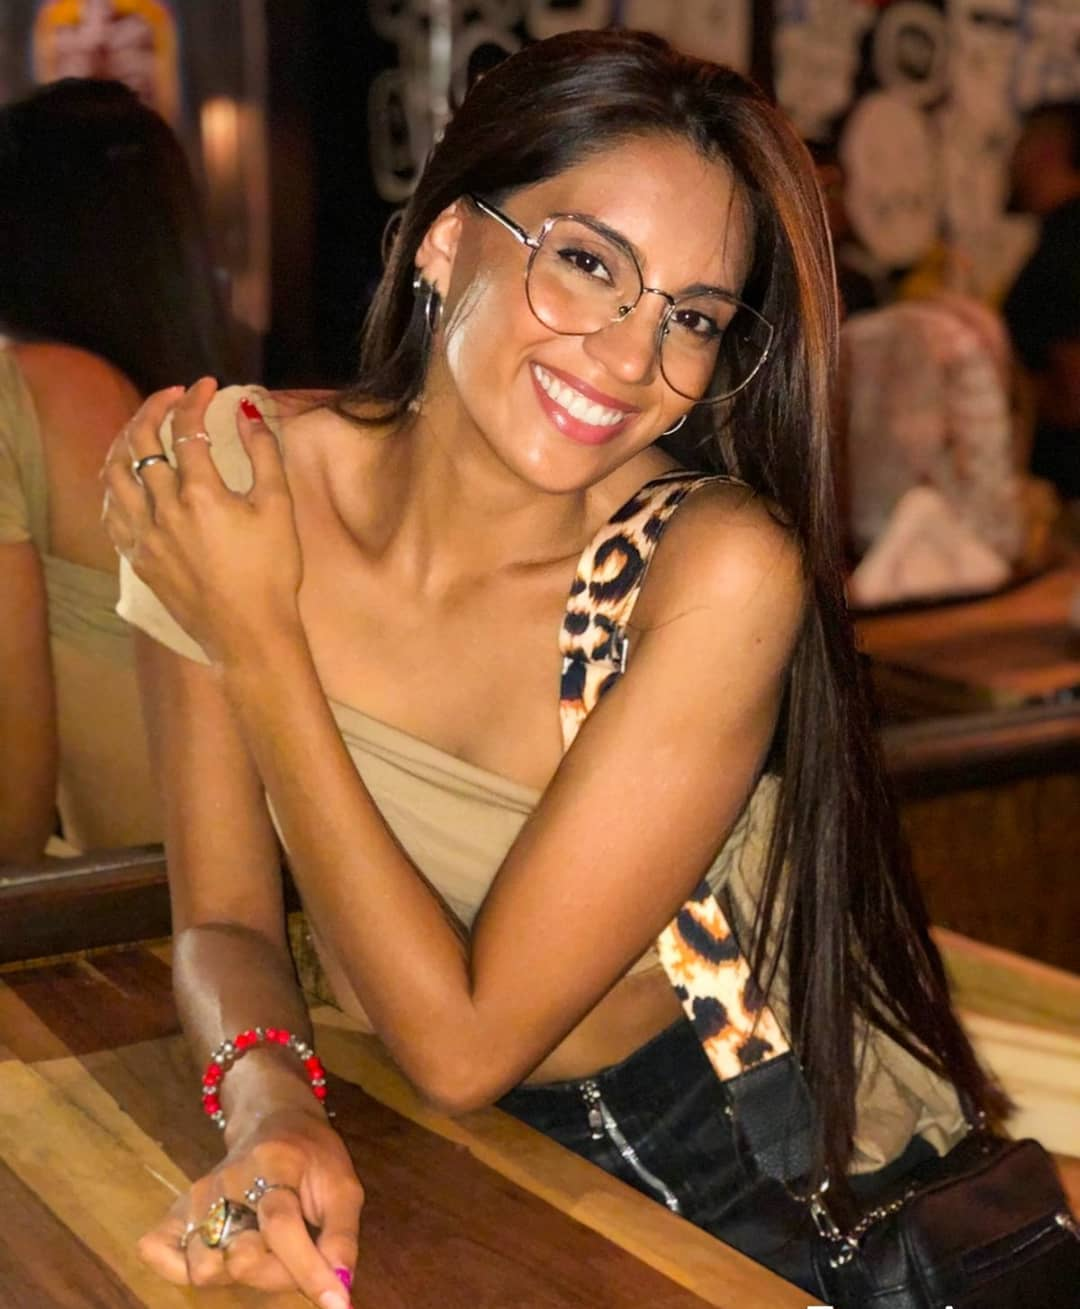
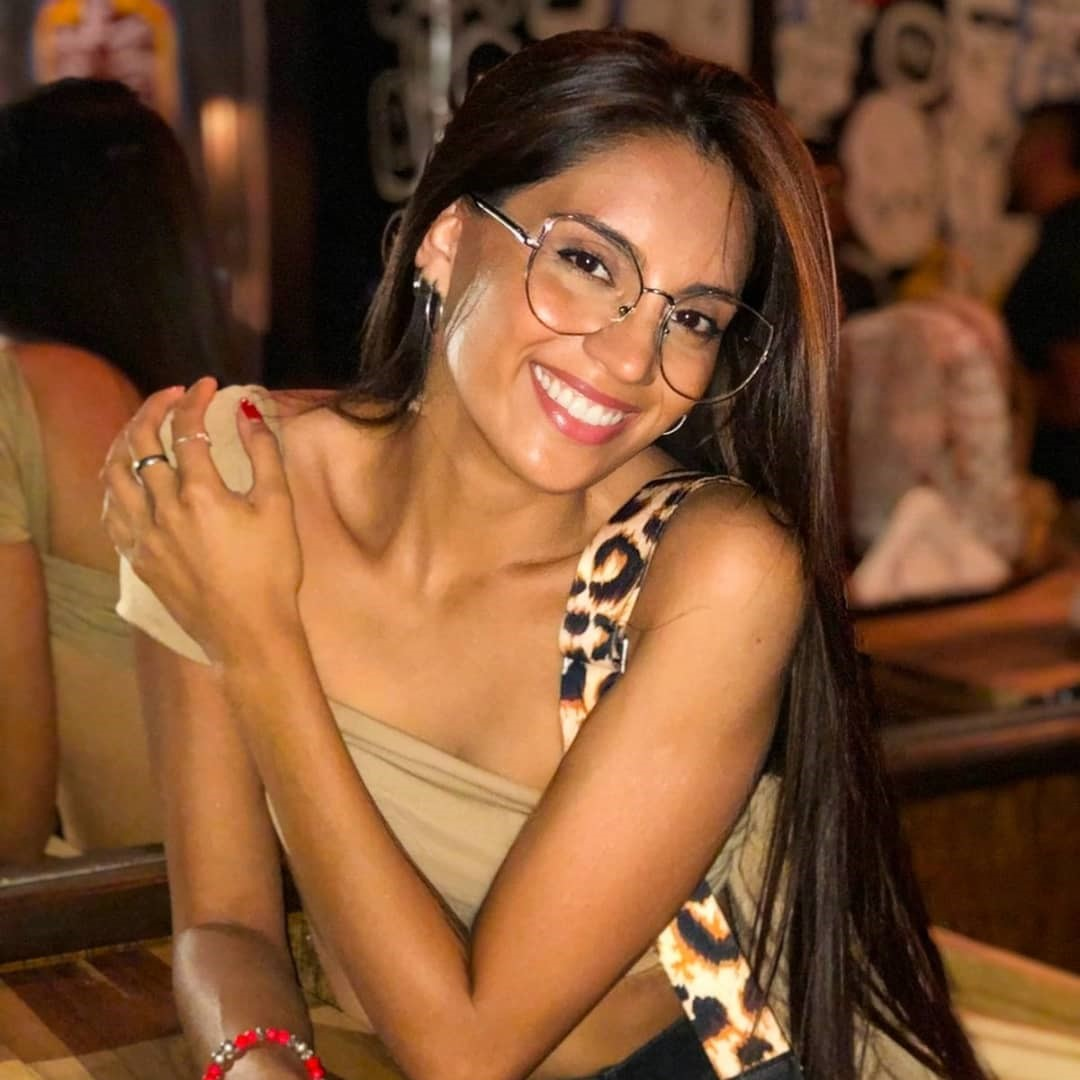
Cambios VIERNES 26

diff --git a/client/src/components/About/AboutMe.jsx b/client/src/components/About/AboutMe.jsx
@@ -13,9 +13,7 @@ import logoCSS from "../../assets/logoCSS.png";
 const AboutMe = () => {
   return (
     <div className={style.content}>
-      <div className={style.welcome}>
-        <h1>Hi! Welcome to my page "Rick and Morty"</h1>
-      </div>
+      
 
       <div className={style.container}>
         <div>
@@ -26,54 +24,17 @@ const AboutMe = () => {
           &nbsp;&nbsp;
           <img src={logoRedux} alt="redux" className={style.logoRedux} />
           &nbsp;&nbsp;
-          <img src={logoREACT} algto="react" className={style.logos} />
+          <img src={logoREACT} alt="react" className={style.logos} />
         </div>
 
-        <div className={style.imageContainer}>
-          <img
-            src={ProfileImg}
-            alt="Maria Celeste Coronel"
-            className={style.image}
-          />
-        </div>
 
         <div className={style.description}>
-          <p>
-            ¡Saludos, compañeros! Soy Maria Celeste, una estudiante entusiasmada
-            que está a punto de terminar la carrera en Ingeniería en Alimentos.
-            Sin embargo, eso no es todo,¡hay más cosas en mi vida! En mi camino
-            académico, me adentré en el increible mundo de la programación y
-            todo cambió. Fue como descubrir un mundo paralelo con infinitas
-            posibilidades. Ahí es donde encontré a Soy Henry, una comunidad
-            educativa revolucionaria que me abrió las puertas a este emocionante
-            mundo.
-          </p>
-
-          <p>
-            ¡Me encanta aprender constantemente y enfrentar nuevos desafíos!
-            Cada día, me sumerjo en lineas y lineas de código, explorando
-            lenguajes de programación, resolviendo problemas y creando
-            soluciones innovadoras.
-          </p>
-
-          <p>
-            En esta oportunidad, les presento mi primer proyecto "Rick and
-            Morty" en donde he trabajado con JavaScript, que me ha permitido dar
-            vida a cada línea de código y crear una experiencia interactiva y
-            dinámica.
-            <p>
-              React, biblioteca que me permitio trabajar con las interfaces de
-              usuario de forma ordenada mediante la creacion de componentes. En
-              la gestion de algunos estados trabaje con Redux, donde aprendi una
-              forma mas equilibrada a la hora de transmitir informacion entre
-              mis componentes.
-            </p>
-            Por ultimo, pero no menos importante, en la forma y estilo de cada
-            elemento de este proyecto trabaje con HTML Y CSS.
-          </p>
-
-          <p>Espero que les guste!!♥</p>
-        </div>
+          <div className={style.imageContainer}>
+            <img
+              src={ProfileImg}
+              alt="Maria Celeste Coronel"
+              className={style.image}
+            />
         <div className={style.redes}>
           <a
             href="https://www.linkedin.com/in/maria-celeste-coronel-b93837249//"
@@ -97,6 +58,46 @@ const AboutMe = () => {
           >
             <FaGithub size={100} margin-right={50} className={style.github} />
           </a>
+        </div>
+          </div>
+          <div className={style.texto}>
+          <p>
+            ¡Saludos, compañeros! Soy Maria Celeste, una estudiante entusiasmada
+            que está a punto de terminar la carrera en Ingeniería en Alimentos.
+            Sin embargo, eso no es todo,¡hay más cosas en mi vida! En mi camino
+            académico, me adentré en el increible mundo de la programación y
+            todo cambió. Fue como descubrir un mundo paralelo con infinitas
+            posibilidades. Ahí es donde encontré a Soy Henry, una comunidad
+            educativa revolucionaria que me abrió las puertas a este emocionante
+            mundo.
+            </p>
+            <p>
+            ¡Me encanta aprender constantemente y enfrentar nuevos desafíos!
+            Cada día, me sumerjo en lineas y lineas de código, explorando
+            lenguajes de programación, resolviendo problemas y creando
+            soluciones innovadoras.
+            </p>        
+
+           <p>
+            En esta oportunidad, les presento mi primer proyecto "Rick and
+            Morty" en donde he trabajado con JavaScript, que me ha permitido dar
+            vida a cada línea de código y crear una experiencia interactiva y
+            dinámica.
+            </p>
+             <p>
+              React, biblioteca que me permitio trabajar con las interfaces de
+              usuario de forma ordenada mediante la creacion de componentes. En
+              la gestion de algunos estados trabaje con Redux, donde aprendi una
+              forma mas equilibrada a la hora de transmitir informacion entre
+              mis componentes.</p>
+            <p>
+            Por ultimo, pero no menos importante, en la forma y estilo de cada
+            elemento de este proyecto trabaje con HTML Y CSS.
+           </p>
+
+              <p>Espero que les guste!!♥</p>
+          
+          </div>
         </div>
       </div>
     </div>

diff --git a/client/src/components/About/AboutMe.module.css b/client/src/components/About/AboutMe.module.css
@@ -4,31 +4,13 @@
 }
 
 
-
-.welcome {
-  font-family: "sui generis";
-  letter-spacing: 1px;
-  margin-right: 10px;
-  margin-top: 10px;
-  height: fit-content;
-  color: #fff;
-  padding: 5px 100px 5px 100px;
-  font-weight: bold;
-  cursor: pointer;
-  position: relative;
-  display: inline-block;
-  border-radius: 5px;
-  border: 5px solid white;
-  box-shadow: 1px 1px 11px 10px rgba(244, 244, 170, 0.66);
-  -webkit-box-shadow: 1px 1px 11px 10px rgba(244, 244, 170, 0.66);
-  -moz-box-shadow: 1px 1px 11px 10px rgba(244, 244, 170, 0.66);
-  background-color: rgba(2, 217, 255, 0.438);
-}
-
-.welcome:hover {
-  box-shadow: 1px 2px 22px 15px rgba(244, 244, 170, 0.66);
-  -webkit-box-shadow: 1px 2px 22px 15px rgba(244, 244, 170, 0.66);
-  -moz-box-shadow: 1px 2px 22px 15px rgba(244, 244, 170, 0.66);
+@keyframes subir {
+  0%{
+      transform: translateY(5px);
+  }
+  100%{
+      transform: translateY(-5px);
+  }
 }
 
 .container {
@@ -60,16 +42,17 @@
 }
 
 .image {
-  width: 350px; /* Ajusta el ancho deseado */
+  display: flex;
+  width: 400px; /* Ajusta el ancho deseado */
   height: auto; /* La altura se ajusta proporcionalmente */
   border-radius: 20px;
   position: relative;
   text-align: center;
+  align-items: center;
+  justify-content: center;
   display: inline-block;
-  border-radius: 22px;
-  margin-right: 1em;
-  border-radius: 22px;
-  background: linear-gradient(145deg, #43ebee, #39c6c8);
+  border-radius: 200px;
+  margin: 2em;
   box-shadow: 5px 5px 5px #3a3c3c, -2px -2px 9px #058383;
 }
 
@@ -80,26 +63,34 @@
 }
 
 .description {
+  display: flex;
+  flex-direction: row;  
   font-family: "sui generis";
   font-size: medium;
   border: 5px solid white;
-  height: 100%; /* Establece la altura al 100% */
-  border-radius: 7%;
-  background-color: rgba(245, 245, 220, 0.863);
+  height: 90%; /* Establece la altura al 100% */
+  border-radius: 2%;
+  backdrop-filter: blur(4px);
+ 
 }
 
-.description:hover {
-  box-shadow: 1px 2px 22px 15px rgba(244, 244, 170, 0.66);
-  -webkit-box-shadow: 1px 2px 22px 15px rgba(244, 244, 170, 0.66);
-  -moz-box-shadow: 1px 2px 22px 15px rgba(244, 244, 170, 0.66);
+.texto{
+  width: 100%;
+  height: 50%;
+  margin-top: 3%;
+  margin-right: 0.5%;
+  
+ 
 }
+
+
 
 .redes{
   margin-right:-1em;
 }
 
 .instagram {
-  color: rgba(41, 41, 46, 0.652);
+  color: rgba(41, 41, 46, 0.959);
 }
 
 .instagram:hover {
@@ -107,7 +98,7 @@
 }
 
 .linkedin {
-  color: rgba(41, 41, 46, 0.652);
+  color: rgba(41, 41, 46, 0.959);
 }
 
 .linkedin:hover {
@@ -115,7 +106,7 @@
 }
 
 .github {
-  color: rgba(41, 41, 46, 0.652);
+  color: rgba(41, 41, 46, 0.959);
 }
 
 .github:hover {

diff --git a/client/src/components/SearchBar/SearchBar.module.css b/client/src/components/SearchBar/SearchBar.module.css
@@ -21,8 +21,8 @@
 
 .SearchButton {
   font-family: "sui generis";
-  margin-left: 1px; /* Modifica el margen izquierdo según tus necesidades */
-  margin-right: 5px;
+  font-size: 120%;
+  margin-right: 20px;
   min-width: 130px;
   height: 40px;
   color: #fff;
@@ -37,15 +37,13 @@
   border: none;
   box-shadow: inset 2px 2px 2px 0px rgba(255, 255, 255, 0.5),
     7px 7px 20px 0px rgba(0, 0, 0, 0.1), 4px 4px 5px 0px rgba(0, 0, 0, 0.1);
-  background-color: rgb(21, 189, 189);
+  background-color: rgba(21, 189, 189, 0);
   z-index: 1;
 }
-
 .SearchButton:hover:after {
   width: 100%;
   left: 0;
 }
-
 .SearchButton:after {
   border-radius: 5px;
   position: absolute;
@@ -57,10 +55,9 @@
   box-shadow: inset 2px 2px 2px 0px rgba(255, 255, 255, 0.5),
     7px 7px 20px 0px rgba(0, 0, 0, 0.1), 4px 4px 5px 0px rgba(0, 0, 0, 0.1);
   transition: all 0.3s ease;
-  background-color: #80ed99;
+  background-color: #08f8bc;
   right: 0;
 }
-
 .SearchButton:active {
   top: 2px;
 }

diff --git a/client/src/components/NavHome/NavHome.jsx b/client/src/components/NavHome/NavHome.jsx
@@ -29,8 +29,8 @@ const NavHome = ({setAccess }) => {
             <button className={style.button}>About me</button>
           </NavLink>
 
-          <NavLink to="/home">
-            <button className={style.button}>Home</button>
+          <NavLink to="/characters">
+            <button className={style.button}>Game</button>
           </NavLink>
         </div>
       </div>

diff --git a/client/src/components/Detail/Detail.module.css b/client/src/components/Detail/Detail.module.css
@@ -11,7 +11,8 @@
   margin: 3%;
   width: 50%;
   height: 60%;
-  background: #0cc2cf95;
+  border: solid 2px white;
+  backdrop-filter: blur(5px);
   /* background: linear-gradient(0deg,#043c61 30%, #11a2f6 80%);
     background: -webkit-linear-gradient(0deg,#043c61 30%, #11a2f6 80%);
     background: -moz-linear-gradient(0deg,#043c61 30%, #11a2f6 80%); */
